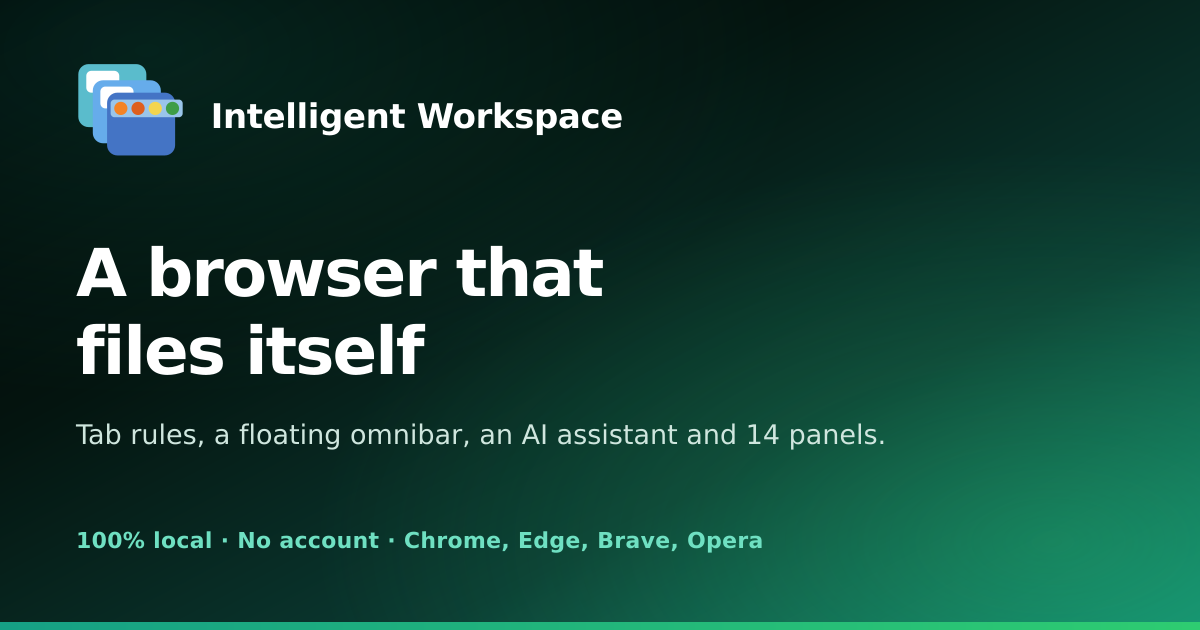
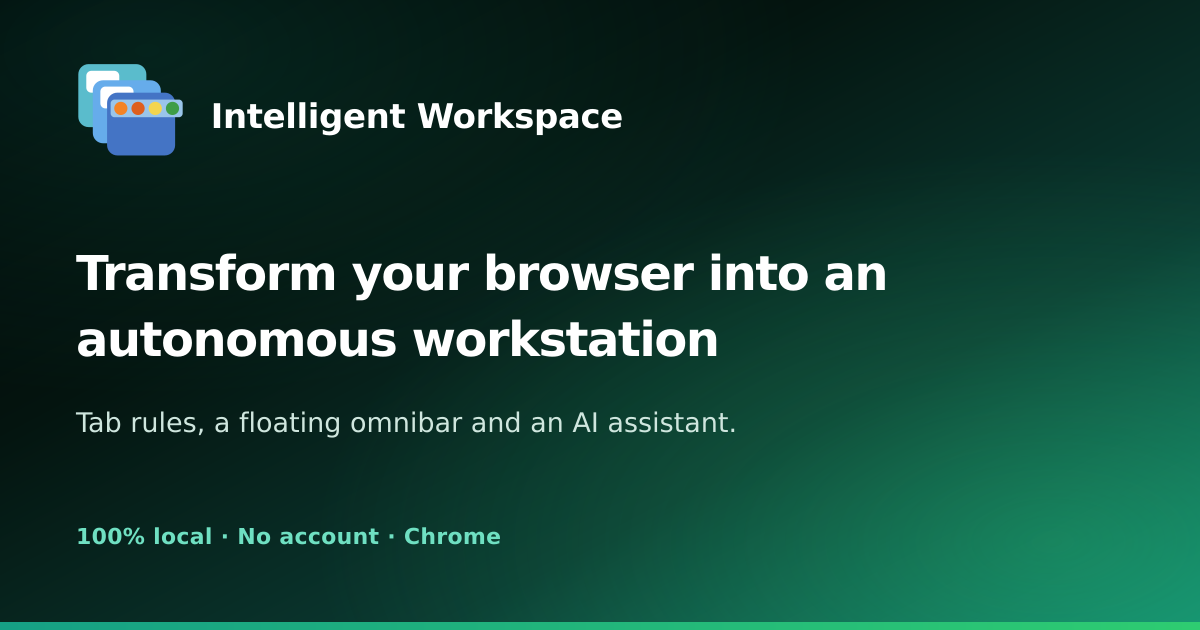
feat(seo): actualizar tarjeta social og y texto descriptivo

diff --git a/src/i18n/ui.ts b/src/i18n/ui.ts
@@ -12,7 +12,7 @@ export const ui = {
         'meta.description':
             'Tab rules that file every window, a floating omnibar, an AI assistant with 58 tools, screen-time caps that block, and 14 panels. All local, no account.',
         /** The `alt` on the social card, and the only description a screen reader gets of it. */
-        'meta.ogAlt': 'Intelligent Workspace — a browser that files itself',
+        'meta.ogAlt': 'Intelligent Workspace — transform your browser into an autonomous workstation',
 
         // Navigation
         'nav.features': 'Features',
@@ -1208,7 +1208,7 @@ export const ui = {
         'meta.title': 'Intelligent Workspace: un navegador que se archiva solo',
         'meta.description':
             'Reglas que agrupan tus pestañas, omnibar flotante, asistente de IA con 58 herramientas, topes de tiempo que bloquean y 14 paneles. Todo local, sin cuenta.',
-        'meta.ogAlt': 'Intelligent Workspace — un navegador que se archiva solo',
+        'meta.ogAlt': 'Intelligent Workspace — transforma tu navegador en una estación de trabajo autónoma',
 
         // Navigation
         'nav.features': 'Capacidades',
